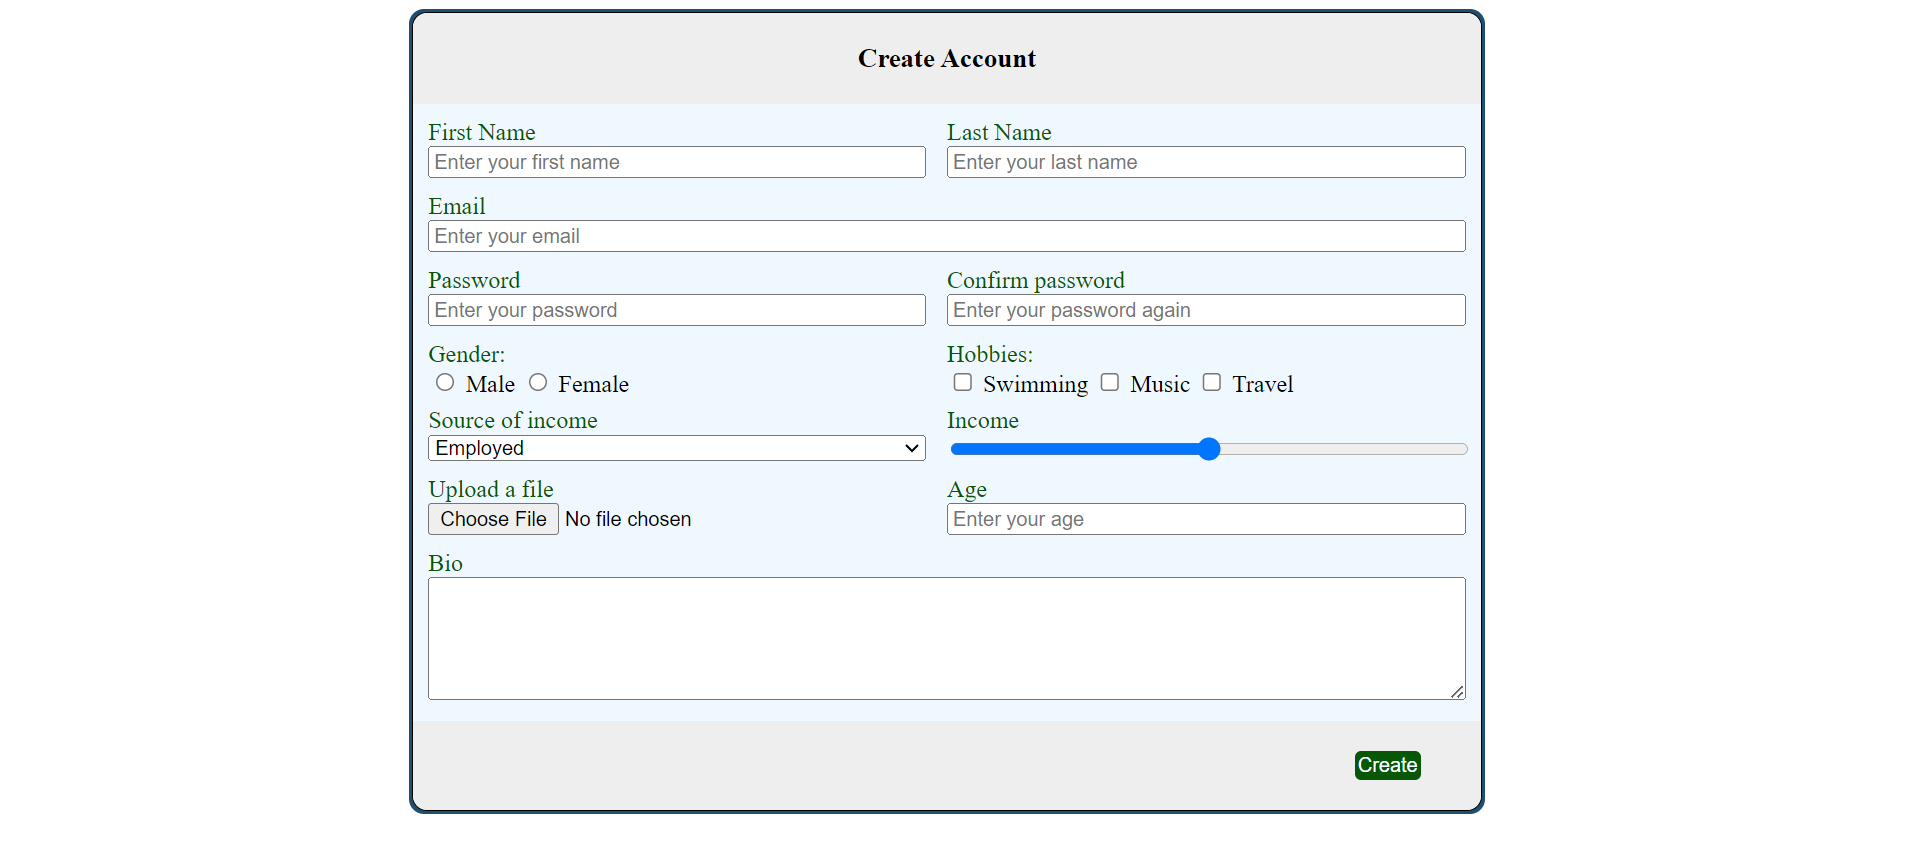
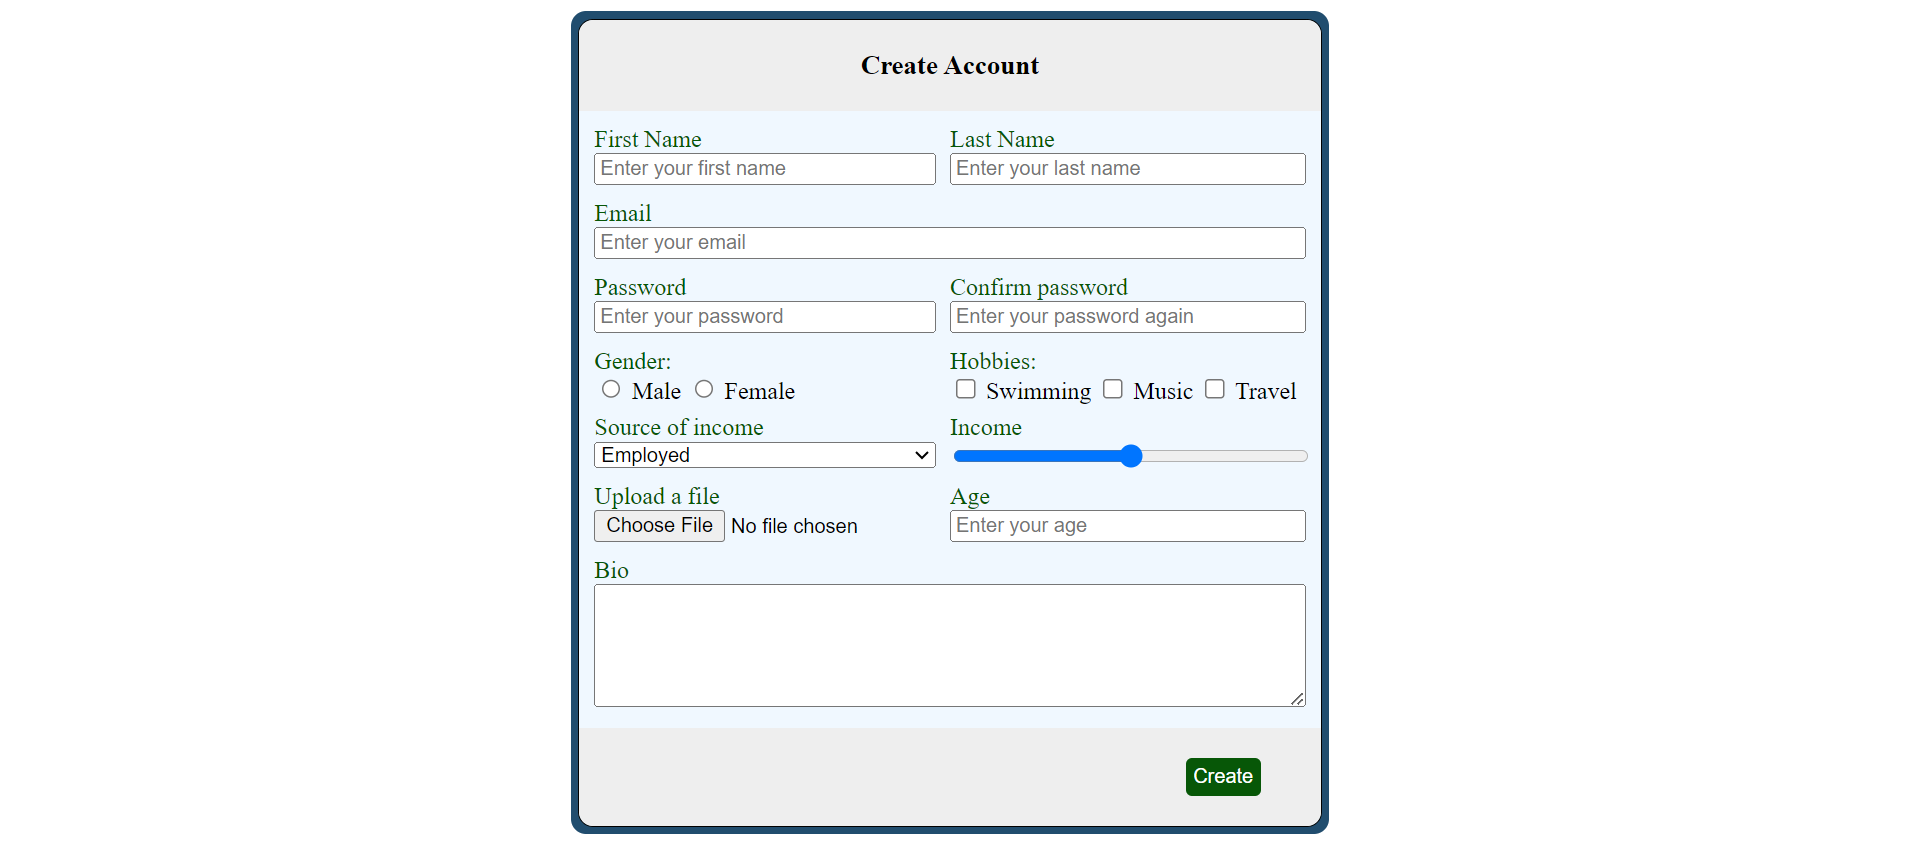
4th Assignment

Changed region(s): [[0.2167, 0.0, 0.7739, 0.9674], [0.4334, 0.0605, 0.5572, 0.0907], [0.7429, 0.786, 0.7739, 0.8163]]

diff --git a/Wavemaker Assignments/Assignment 3/index.html b/Wavemaker Assignments/Assignment 3/index.html
@@ -4,98 +4,74 @@
     <meta charset="UTF-8">
     <meta name="viewport" content="width=device-width, initial-scale=1.0">
     <link rel="stylesheet" href="https://cdn.jsdelivr.net/npm/bootstrap@5.3.3/dist/css/bootstrap.min.css">
-    <title>Document</title>
+    <title>Calculator</title>
     <link rel="stylesheet" href="styles.css">
 </head>
 <body>
-    
     <div class="mt-5 px-1 d-flex justify-content-center">
-        <!-- <div class="col-md-4"></div> -->
-        <div class="col-md-4">
+        <div class="col-lg-4">
             <div class="p-3 pt-1 bg-dark border rounded">
                 <h1 class="display1 text-end text-white text-center py-0">Calculator</h1>
                 <ul class="nav mb-3 p-1">
                     <li class="nav-item mx-3">
-                      <a href="#">View</a>
+                      <a href="">View</a>
                     </li>
                     <li class="nav-item mx-3">
-                        <a href="#">Edit</a>
+                        <a href="">Edit</a>
                     </li>
                     <li class="nav-item mx-3">
-                        <a href="#">Help</a>
+                        <a href="">Help</a>
                     </li>
                   </ul>
-                <!-- <input class="container bg-white my-2 p-5 border rounded" > -->
-                <input type="text" id="display" class="container text-end text-5 fs-1 bg-white my-2 p-3 border rounded" value="0">
+                <input type="text" id="display" class="container text-end text-5 fs-1 my-2 p-3 border rounded" value="0">
                 <div class="row mx-1">
-                    <div class="col-md m-1 p-0"><button class="btn mc text-primary w-100 m-0 btn-outline-dark bg-light">MC</button></div>
-                    <div class="col-md m-1 p-0"><button class="btn mr text-primary w-100 m-0 btn-outline-dark bg-light">MR</button></div>
-                    <div class="col-md m-1 p-0"><button class="btn ms text-primary w-100 m-0 btn-outline-dark bg-light">MS</button></div>
-                    <div class="col-md m-1 p-0"><button class="btn mi text-primary w-100 m-0 btn-outline-dark bg-light">M+</button></div>
-                    <div class="col-md m-1 p-0"><button class="btn md text-primary w-100 m-0 btn-outline-dark bg-light">M-</button></div>
+                    <div class="col-lg m-1 p-0"><button class="btn mc text-primary w-100 m-0 bg-light">MC</button></div>
+                    <div class="col-lg m-1 p-0"><button class="btn mr text-primary w-100 m-0 bg-light">MR</button></div>
+                    <div class="col-lg m-1 p-0"><button class="btn ms text-primary w-100 m-0 bg-light">MS</button></div>
+                    <div class="col-lg m-1 p-0"><button class="btn mi text-primary w-100 m-0 bg-light">M+</button></div>
+                    <div class="col-lg m-1 p-0"><button class="btn md text-primary w-100 m-0 bg-light">M-</button></div>
                 </div>
                 <div class="row mx-1">
-                    <div class="col-md m-1 p-0"><button class="btn bs text-primary w-100 m-0 btn-outline-dark bg-light"><-</button></div>
-                    <div class="col-md m-1 p-0"><button class="btn bs text-primary w-100 m-0 btn-outline-dark bg-light">CE</button></div>
-                    <div class="col-md m-1 p-0"><button class="btn clear text-primary w-100 m-0 btn-outline-dark bg-light">C</button></div>
-                    <div class="col-md m-1 p-0"><button class="btn text-primary w-100 m-0 btn-outline-dark bg-light">+-</button></div>
-                    <div class="col-md m-1 p-0"><button class="btn sqrt text-primary w-100 m-0 btn-outline-dark bg-light">&#8730</button></div>
+                    <div class="col-lg m-1 p-0"><button class="btn bs text-primary w-100 m-0 bg-light"><-</button></div>
+                    <div class="col-lg m-1 p-0"><button class="btn bs text-primary w-100 m-0 bg-light">CE</button></div>
+                    <div class="col-lg m-1 p-0"><button class="btn clear text-primary w-100 m-0 bg-light">C</button></div>
+                    <div class="col-lg m-1 p-0"><button class="btn text-primary w-100 m-0 bg-light">+-</button></div>
+                    <div class="col-lg m-1 p-0"><button class="btn sqrt text-primary w-100 m-0 bg-light">&#8730</button></div>
                 </div>
                 <div class="row mx-1">
-                    <div class="col-md m-1 p-0"><button class="btn btn-num-op w-100 m-0 btn-outline-dark bg-light hover:bg-dark">7</button></div>
-                    <div class="col-md m-1 p-0"><button class="btn btn-num-op w-100 m-0 btn-outline-dark bg-light">8</button></div>
-                    <div class="col-md m-1 p-0"><button class="btn btn-num-op w-100 m-0 btn-outline-dark bg-light">9</button></div>
-                    <div class="col-md m-1 p-0"><button class="btn btn-num-op text-primary w-100 m-0 btn-outline-dark bg-light">/</button></div>
-                    <div class="col-md m-1 p-0"><button class="btn btn-num-op text-primary w-100 m-0 btn-outline-dark bg-light">%</button></div>
+                    <div class="col-lg m-1 p-0"><button class="btn btn-num-op w-100 m-0 bg-light">7</button></div>
+                    <div class="col-lg m-1 p-0"><button class="btn btn-num-op w-100 m-0 bg-light">8</button></div>
+                    <div class="col-lg m-1 p-0"><button class="btn btn-num-op w-100 m-0 bg-light">9</button></div>
+                    <div class="col-lg m-1 p-0"><button class="btn btn-num-op text-primary w-100 m-0 bg-light">/</button></div>
+                    <div class="col-lg m-1 p-0"><button class="btn btn-num-op text-primary w-100 m-0 bg-light">%</button></div>
                 </div>
                 <div class="row mx-1">
-                    <div class="col-md m-1 p-0"><button class="btn btn-num-op w-100 m-0 btn-outline-dark bg-light">4</button></div>
-                    <div class="col-md m-1 p-0"><button class="btn btn-num-op w-100 m-0 btn-outline-dark bg-light">5</button></div>
-                    <div class="col-md m-1 p-0"><button class="btn btn-num-op w-100 m-0 btn-outline-dark bg-light">6</button></div>
-                    <div class="col-md m-1 p-0"><button class="btn btn-num-op text-primary w-100 m-0 btn-outline-dark bg-light">*</button></div>
-                    <div class="col-md m-1 p-0"><button class="btn reci text-primary w-100 m-0 btn-outline-dark bg-light">1/x</button></div>
+                    <div class="col-lg m-1 p-0"><button class="btn btn-num-op w-100 m-0 bg-light">4</button></div>
+                    <div class="col-lg m-1 p-0"><button class="btn btn-num-op w-100 m-0 bg-light">5</button></div>
+                    <div class="col-lg m-1 p-0"><button class="btn btn-num-op w-100 m-0 bg-light">6</button></div>
+                    <div class="col-lg m-1 p-0"><button class="btn btn-num-op text-primary w-100 m-0 bg-light">*</button></div>
+                    <div class="col-lg m-1 p-0"><button class="btn reci text-primary w-100 m-0 bg-light">1/x</button></div>
                 </div>
                 <div class="row mx-1">
                     <div class="wid-80">
                         <div class="row">
-                            <div class="col-md m-1 p-0"><button class="btn btn-num-op w-100 m-0 btn-outline-dark bg-light">1</button></div>
-                            <div class="col-md m-1 p-0"><button class="btn btn-num-op w-100 m-0 btn-outline-dark bg-light">2</button></div>
-                            <div class="col-md m-1 p-0"><button class="btn btn-num-op w-100 m-0 btn-outline-dark bg-light">3</button></div>
-                            <div class="col-md m-1 p-0"><button class="btn btn-num-op text-primary w-100 m-0 btn-outline-dark bg-light">-</button></div>
+                            <div class="col-lg m-1 p-0"><button class="btn btn-num-op w-100 m-0 bg-light">1</button></div>
+                            <div class="col-lg m-1 p-0"><button class="btn btn-num-op w-100 m-0 bg-light">2</button></div>
+                            <div class="col-lg m-1 p-0"><button class="btn btn-num-op w-100 m-0 bg-light">3</button></div>
+                            <div class="col-lg m-1 p-0"><button class="btn btn-num-op text-primary w-100 m-0 bg-light">-</button></div>
                         </div>
                         <div class="row">
-                            <div class="wid-48 m-1 p-0"><button class="btn btn-num-op w-100 btn-outline-dark bg-light">0</button></div>
-                            <div class="col-md m-1 p-0"><button class="btn btn-num-op w-100 btn-outline-dark bg-light">.</button></div>
-                            <div class="col-md m-1 p-0"><button class="btn btn-num-op text-primary w-100 btn-outline-dark bg-light">+</button></div>
+                            <div class="wid-48 m-1 p-0"><button class="btn btn-num-op w-100 bg-light">0</button></div>
+                            <div class="col-lg m-1 p-0"><button class="btn btn-num-op w-100 bg-light">.</button></div>
+                            <div class="col-lg m-1 p-0"><button class="btn btn-num-op text-primary w-100 bg-light">+</button></div>
                         </div>
                     </div>
                     <div class="wid-20 m-0 p-1">
-                        <div class="w-100 h-100"><button class="btn equal text-primary h-100 w-100 btn-outline-dark bg-light">=</button></div>
+                        <div class="w-100 h-100"><button class="btn equal text-primary h-100 w-100 bg-light">=</button></div>
                     </div>
                 </div>
-                <!-- <div class="row">
-                    <div class="col-md-8">
-                        <div class="row">
-                            <div class="col-md-2"><button class="btn w-100 btn-outline-dark bg-light">1</button></div>
-                            <div class="col-md-2"><button class="btn w-100 btn-outline-dark bg-light">2</button></div>
-                            <div class="col-md-2"><button class="btn w-100 btn-outline-dark bg-light">3</button></div>
-                            <div class="col-md-2"><button class="btn w-100 btn-outline-dark bg-light">-</button></div>
-                        </div>
-                        <div class="row">
-                            <div class="col-md-4"><button class="btn w-100 btn-outline-dark bg-light">0</button></div>
-                            <div class="col-md-2"><button class="btn w-100 btn-outline-dark bg-light">.</button></div>
-                            <div class="col-md-2"><button class="btn w-100 btn-outline-dark bg-light">+</button></div>
-                            
-                            <div class="col-md"><button class="btn w-100 btn-outline-dark bg-light">+</button></div> -->
-                        <!-- </div>
-                    </div>
-                    <div class="col-md-2">
-                        <div class="col-md h-100 m-0"><button class="btn w-100 h-100 btn-outline-dark bg-light">=</button></div>
-                    </div>
-                </div> -->
             </div>
         </div>
-        <!-- <div class="container-4"></div> -->
     </div>
     <script src="script.js"></script>
 </body>

diff --git a/Wavemaker Assignments/Assignment 4/index.html b/Wavemaker Assignments/Assignment 4/index.html
@@ -1,0 +1,54 @@
+<!DOCTYPE html>
+<html lang="en">
+<head>
+    <meta charset="UTF-8">
+    <meta name="viewport" content="width=device-width, initial-scale=1.0">
+    <link rel="stylesheet" href="https://cdn.jsdelivr.net/npm/bootstrap@5.3.3/dist/css/bootstrap.min.css">
+    <title>Document</title>
+</head>
+<body class="overflow-hidden">
+    <div class="row d-flex justify-content-center bg-dark">
+        <div class="h-25 col-12 m-0 bg-secondary position-absolute p-0"></div>
+    </div>
+    
+    <div class="row">
+        <div class="col-md-6 mx-auto position-relative mt-5 rounded bg-dark">
+            <div class="float-left w-25 mx-auto">
+                <img src="assets/Profile icon.png" alt="Profile icon" class=" w-100 my-3 rounded-circle">
+            </div>
+            <div class="text-center text-warning">
+                <h4 class="mb-0 fs-1">Andrew Garfield</h4>
+                <h4 class="display-6 fs-6">E Id : 700053</h4>
+                <h4 class="display-6 fs-6">garfield@wavemaker.com</h4>
+                <h4 class="display-6 fs-6">phone: +91 0423443240</h4>
+            </div>
+            <div class="row my-3">
+                <div class="col-md-4 text-center">
+                    <h3 class="text-primary" >Education</h3>
+                    <ul class="text-success list-unstyled">
+                        <li>B.tech: Sreenidhi college</li>
+                        <li>12th: Narayana college</li>
+                        <li>10th: Sri chaitanaya school</li>
+                    </ul>
+                </div>
+                <div class="col-md-4 text-center">
+                    <h3 class="text-primary" > Hobbies </h3>
+                    <ul class="text-success list-unstyled">
+                        <li>Basket ball</li>
+                        <li>Movies / Series</li>
+                        <li>Swimming</li>
+                    </ul>
+                </div>
+                <div class="col-md-4 text-center">
+                    <h3 class="text-primary" >Intrests </h3>
+                    <ul class="text-success list-unstyled">
+                        <li>Cinematography</li>
+                        <li>Video Editing</li>
+                        <li>Story telling</li>
+                    </ul>
+            </div>
+            </div>
+        </div>
+    </div>
+</body>
+</html>

diff --git a/Wavemaker Assignments/Assignment 2/styles.css b/Wavemaker Assignments/Assignment 2/styles.css
@@ -14,22 +14,13 @@
 
 .outerbox{
     background-color: rgb(33, 77, 110);
-    width: fit-content;
-    height: 100%;
+    width: 40%;
     border-radius: 10px;
     margin: auto;
-    padding: 2px;
+    padding: 5px;
 }
 
-#income{
-    width: 100%;
-}
-
-#proff{
-    width: 100%;
-}
-
-#hobbies{
+#income, #proff, #hobbies, #mail, #bio, .textinput{
     width: 100%;
 }
 
@@ -38,7 +29,6 @@ form{
     border: 1px solid black;
     align-items: center;
     width: 100%;
-    height: 100%;
     background-color: aliceblue;
 }
 
@@ -59,25 +49,17 @@ input{
     margin-bottom: 10px;
 }
 
-.textinput{
-    width: 100%;
-}
-
 .hobbies{
     width: 50%;
 }
 
-.submit{
+.submit-btn{
     background-color: rgb(7, 87, 7);
     border: none;
     border-radius: 4px;
     color: white;
     margin-top: 10px;
-    padding: 2px;
-}
-
-#mail{
-    width: 100%;
+    padding: 5px;
 }
 
 select{
@@ -96,9 +78,6 @@ select{
     background-color: rgb(238, 238, 238);
     padding: 10px 40px 10px 10px;
 }
-#bio{
-    width: 100%
-}
 
 @media screen and (max-width: 600px) {
     .floatleft{
@@ -112,5 +91,8 @@ select{
     .footer{
         text-align: center;
         padding: 2px;
+    }
+    .outerbox{
+        width: fit-content;
     }
   }

diff --git a/Wavemaker Assignments/Assignment 2/index.html b/Wavemaker Assignments/Assignment 2/index.html
@@ -3,7 +3,7 @@
 <head>
     <meta charset="UTF-8">
     <meta name="viewport" content="width=device-width, initial-scale=1.0">
-    <title>Document</title>
+    <title>Form</title>
     <link rel="stylesheet" href="styles.css">
 </head>
 <body>
@@ -73,7 +73,7 @@
                 <textarea id="bio" rows="5" cols="58"></textarea><br>
             </div>
             <div class="footer">
-                <input class="submit" type="submit" value="Create">
+                <input class="submit-btn" type="submit" value="Create">
             </div>
         </form>
     </div>

diff --git a/Wavemaker Assignments/Assignment 3/script.js b/Wavemaker Assignments/Assignment 3/script.js
@@ -101,12 +101,13 @@ function memoDec(){
 }
 
 function reciprocate(){
-    display.value=Math.round((1/display.value)*100)/100;
+    if(display.value == 0) alert("Denominator cannot be zero");
+    else display.value=Math.round((1/display.value)*100)/100;
 }
 
 function squareRoot(){
     if(display.value<0) alert("Can't Square root negative number")
-    display.value=Math.round(Math.sqrt(display.value)*100)/100;
+    else display.value=Math.round(Math.sqrt(display.value)*100)/100;
 }
 
 function evaluate(){

diff --git a/Wavemaker Assignments/Assignment 1/index.html b/Wavemaker Assignments/Assignment 1/index.html
@@ -3,7 +3,7 @@
 <head>
     <meta charset="UTF-8">
     <meta name="viewport" content="width=device-width, initial-scale=1.0">
-    <title>Document</title>
+    <title>Table</title>
     <link rel="preconnect" href="https://fonts.googleapis.com">
     <link rel="preconnect" href="https://fonts.gstatic.com" crossorigin>
     <link href="https://fonts.googleapis.com/css2?family=Roboto:ital,wght@0,100;0,300;0,400;0,500;0,700;0,900;1,100;1,300;1,400;1,500;1,700;1,900&display=swap" rel="stylesheet">
